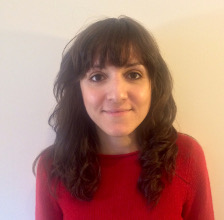
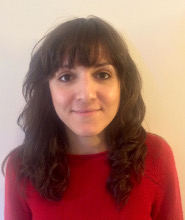
changed image size

diff --git a/assets/css/styles.css b/assets/css/styles.css
@@ -177,8 +177,8 @@ p#second_p {
 
 #alexa_image {
     background-image: url(../images/alexa3.jpg);
-    width: 224px;
-    height: 220px;
+		width: 166px;
+    height: 195px;
     background-size: 100%;
     margin-right: 20px;
     border-radius: 9px;
